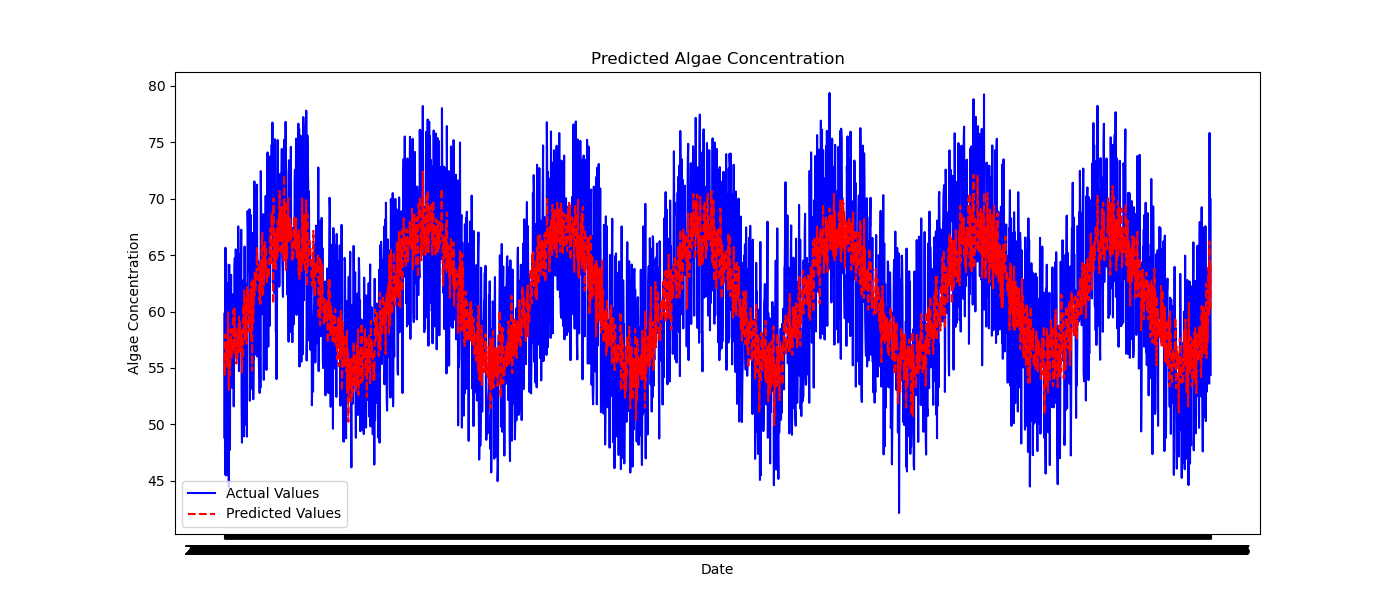
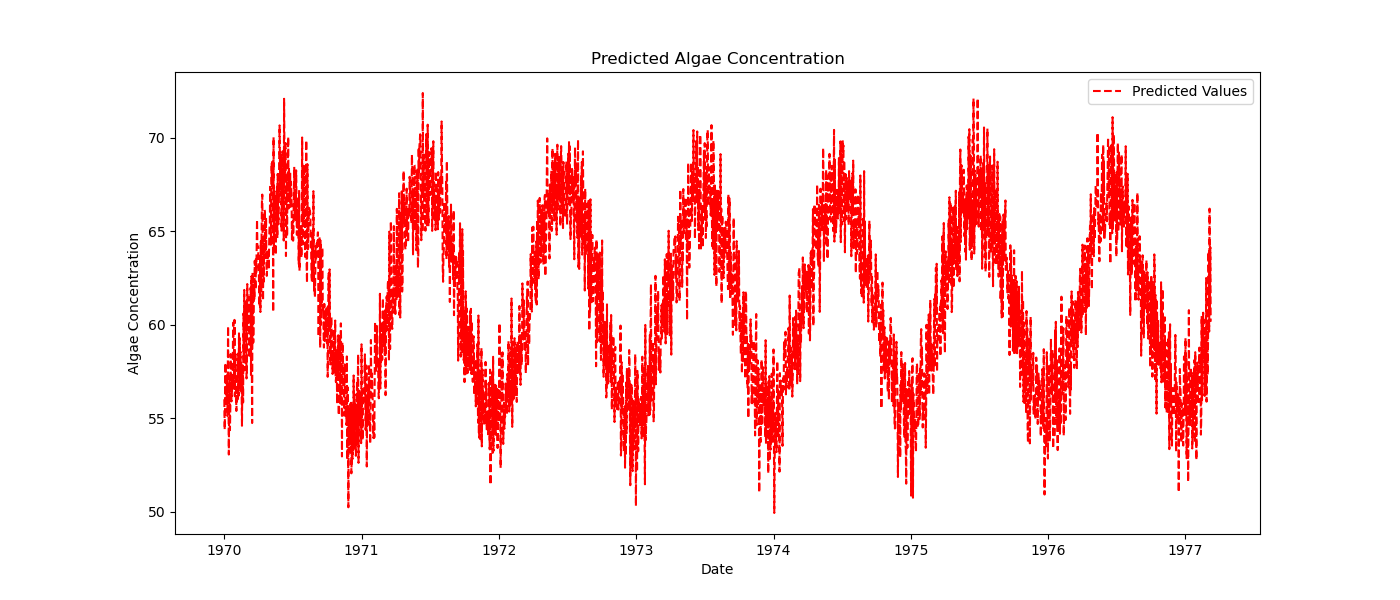
Updates to image

diff --git a/PredictionModel.py b/PredictionModel.py
@@ -1,8 +1,10 @@
 # https://www.kaggle.com/code/mrtoddy/kagglepredic
 # Time Series Forecasting
-import pandas as pd
 from sklearn.linear_model import LinearRegression
 import matplotlib.pyplot as plt
+import pandas as pd
+import matplotlib.dates as mdates
+
 
 def train(dataset):
     # Sort dataset by Date
@@ -33,16 +35,25 @@ def train(dataset):
 
     # Plot Actual vs. Predicted - ensuring that the dates match the predictions
     plt.figure(figsize=(14, 6))
-    plt.plot(test_dataset['Date'], y_test, label='Actual Values', color='blue')
+    # plt.plot(test_dataset['Date'], y_test, label='Actual Values', color='blue')
     plt.plot(test_dataset['Date'], predictions, label='Predicted Values', color='red', linestyle='dashed')
     plt.title('Predicted Algae Concentration')
     plt.xlabel('Date')
     plt.ylabel('Algae Concentration')
+
+    # Format the date on x-axis to display every 5 years
+    plt.gca().xaxis.set_major_locator(mdates.YearLocator(1))
+    plt.gca().xaxis.set_major_formatter(mdates.DateFormatter('%Y'))
+
     plt.legend()
-    # Save the Predicted Algae Concentration plot
     plt.savefig('predicted_algae_concentration.png')
     plt.show()
     plt.close()
 
     # Return the path of the saved images
     return 'predicted_algae_concentration.png'
+
+
+#dataset = pd.read_csv('water_potability_augmented_v2.csv')
+
+#train(dataset)
